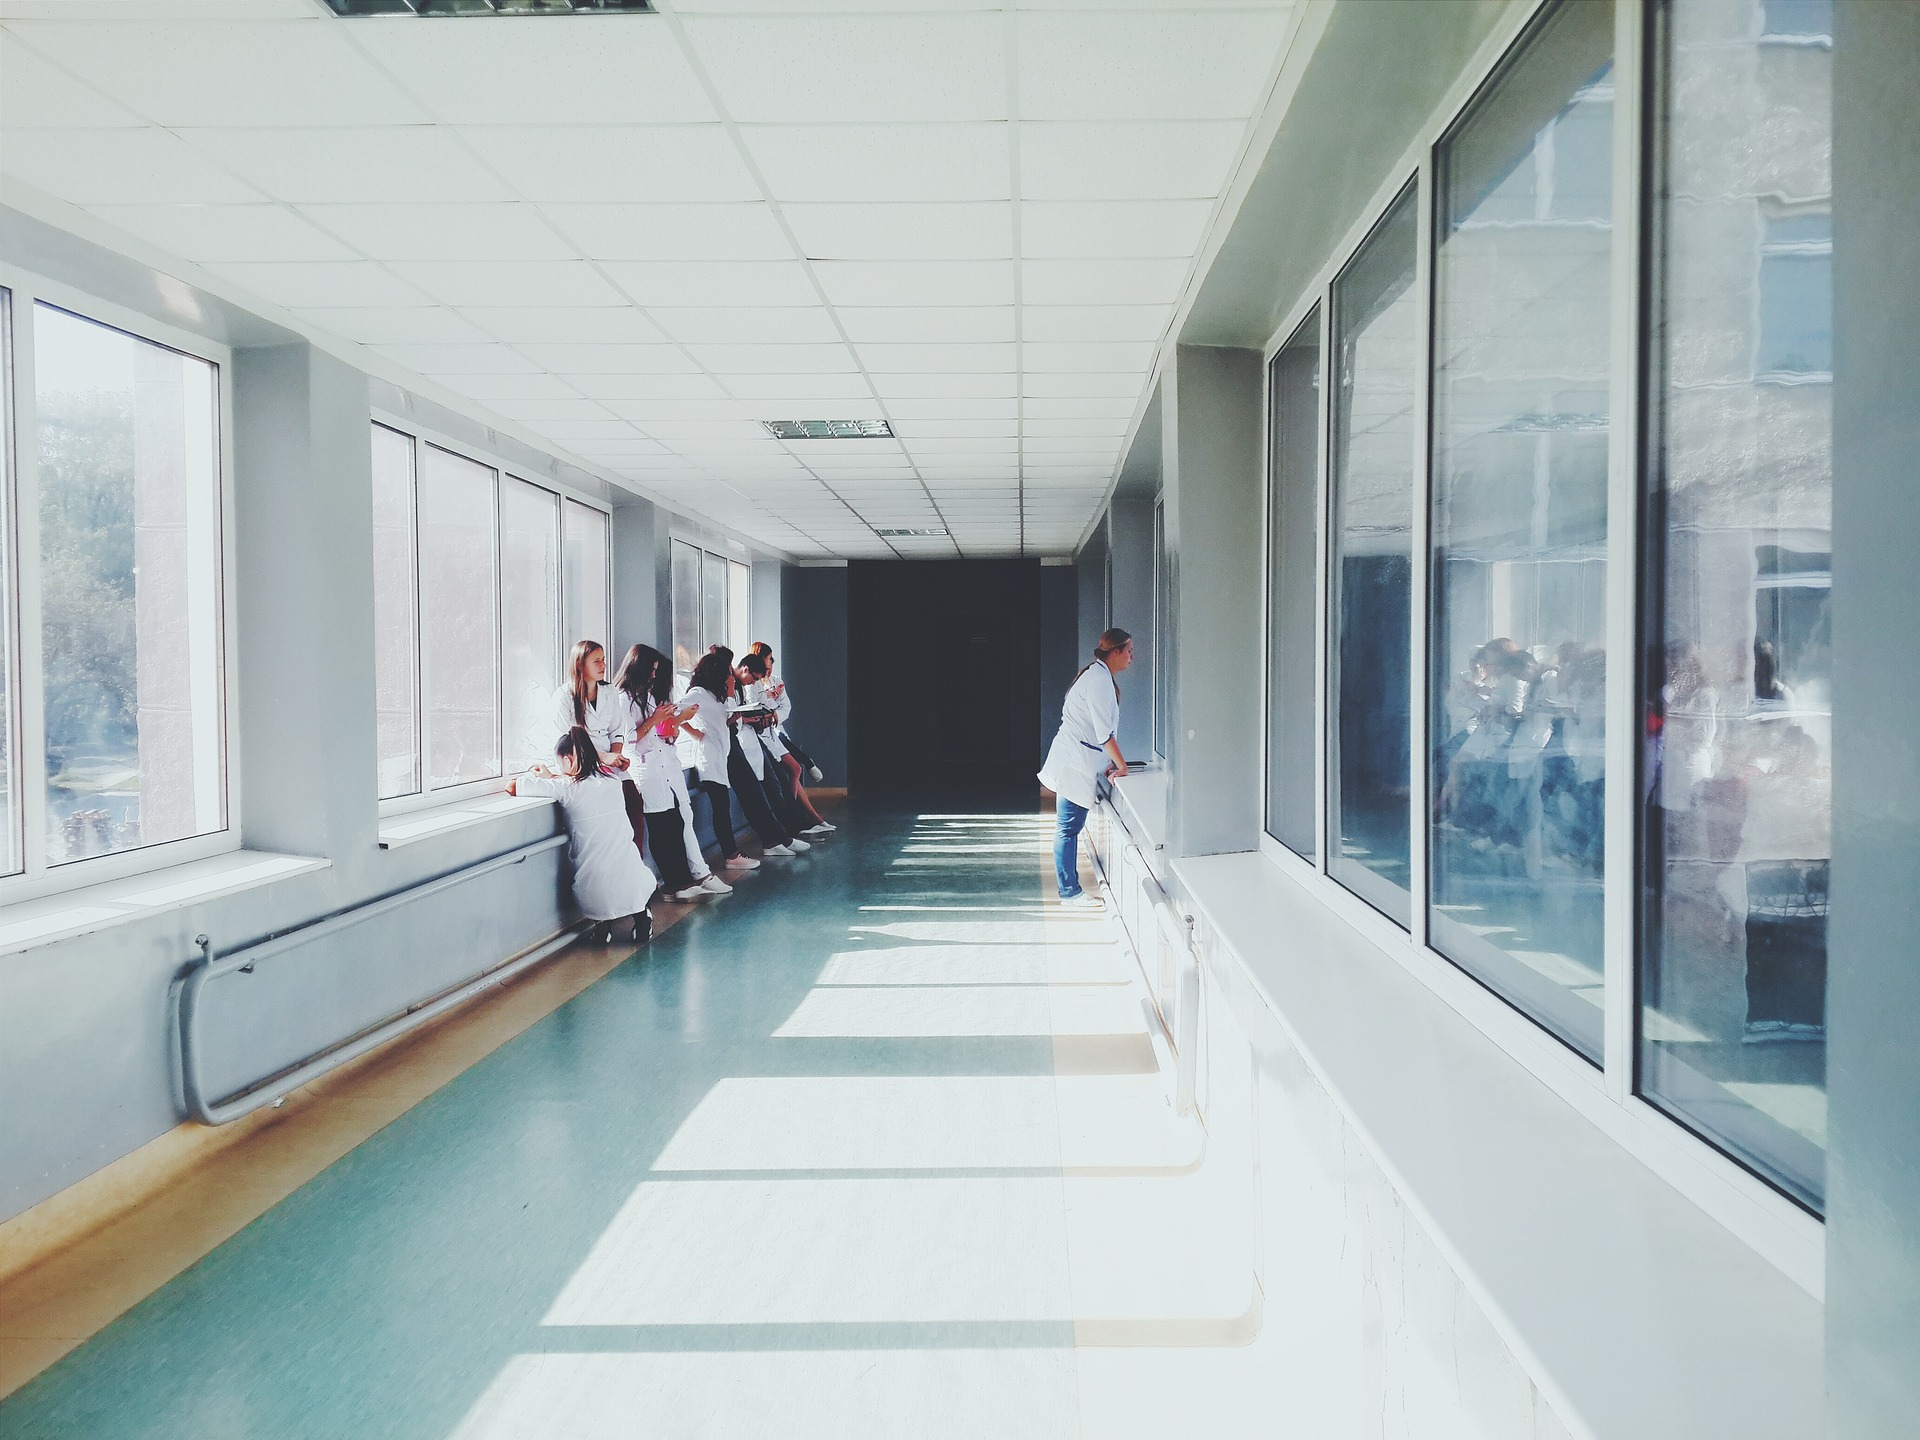
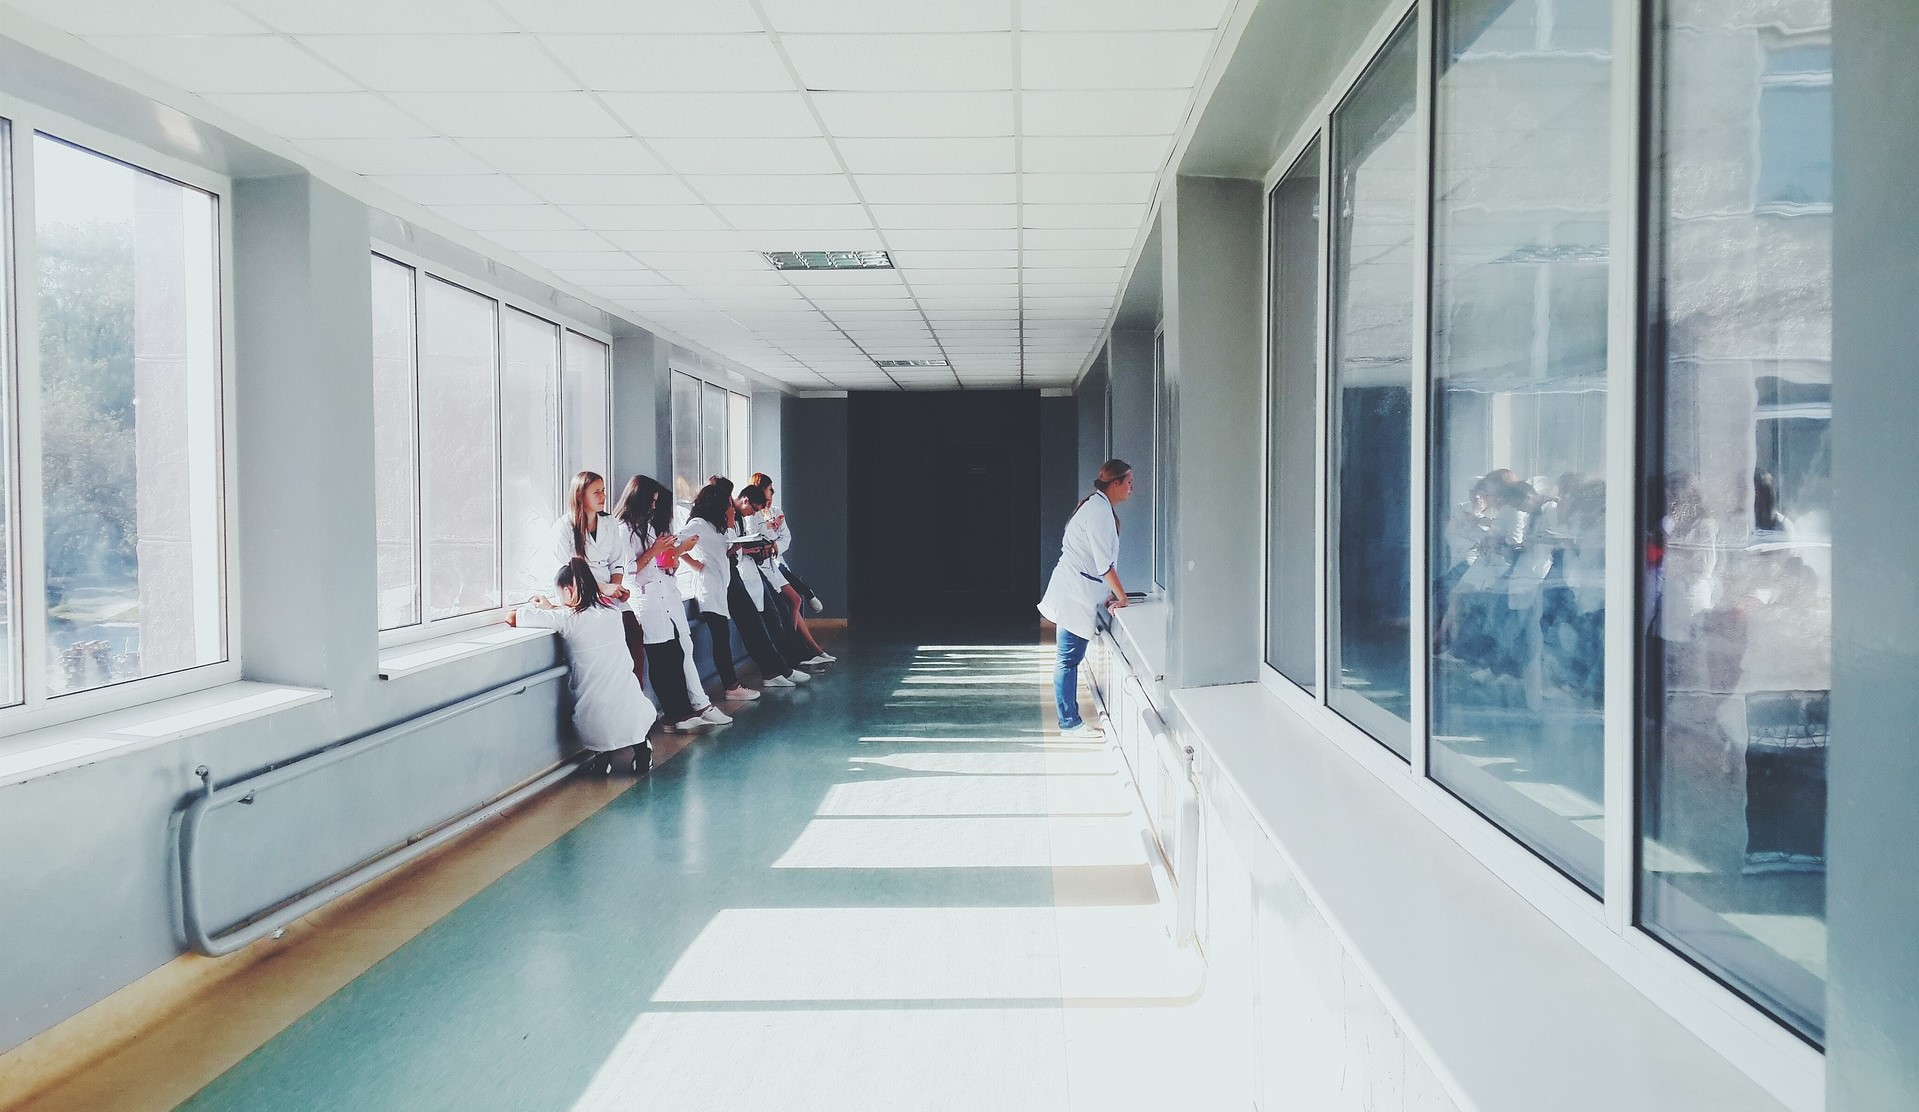
editing pictures

diff --git a/index.html b/index.html
@@ -36,23 +36,23 @@ title: main
 			<p>Adam's research currently involves integrating operations research methods to evaluate healthcare access. His research previously focused on economic and decision analysis studies applied to global health issues.</p>
 			<div class="features">
 				<article>
-					<a href="#" class="image"><img src="images/pic01.jpg" alt="" /></a>
+					<a href="#" class="image"><img src="images/hospital.jpg" alt="" /></a>
 					<div class="inner">
 						<h4>Systems Engineering for Examining Access to Healthcare (2017-present)</h4>
 						<p>Developing framework for employing a suite of systems engineering and operations research tools to comprehensively understand healthcare access from financial, geographic, logistics, and scheduling perspectives. Collaborating with researchers at Emory University and the Veterans Affairs Healthcare System to apply framework by comparing screening methods for chronic visual disease among veterans in Georgia.</p>
 					</div>
 				</article>
 				<article>
-					<a href="#" class="image"><img src="images/pic02.jpg" alt="" /></a>
+					<a href="#" class="image"><img src="images/charts2.jpg" alt="" /></a>
 					<div class="inner">
-						<h4>Evaluating Cost-Effectiveness of Options to Improve Health Outcomes Among HIV-Positive Women in Ghana (2011-2013)</h4>
+						<h4>Cost-Effectiveness of HIV Therapy for Pregnant Women in Ghana (2011-2013)</h4>
 						<p>Developed a decision analytic model using data from chart review and literature search. This model incorporates clinical information into a decision tree with embedded Markov model to evaluate two therapy regimens for HIV-positive pregnant women in Ghana.</p>
 					</div>
 				</article>
 				<article>
-					<a href="#" class="image"><img src="images/pic03.jpg" alt="" /></a>
+					<a href="#" class="image"><img src="images/ophtho.jpg" alt="" /></a>
 					<div class="inner">
-						<h4>Relationship between Poverty & Visual Impairment from Cataract in Ghana (2011-2012)</h4>
+						<h4>Poverty & Visual Impairment from Cataract in Ghana (2011-2012)</h4>
 						<p>Analyzed the relationship between visual impairment due to cataract and economic impact of subsidized treatment. Metrics of economic impact included household income, ability for caregivers to work or attend school, and financial security.</p>
 					</div>
 				</article>
